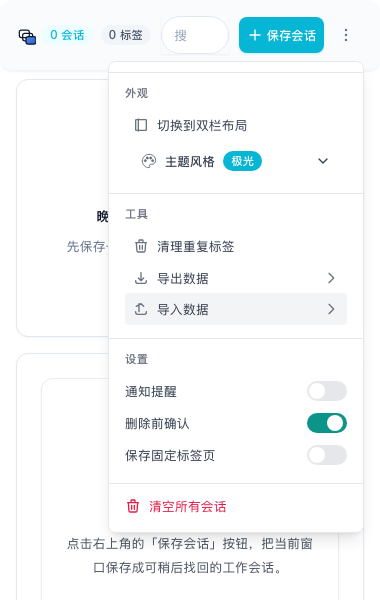
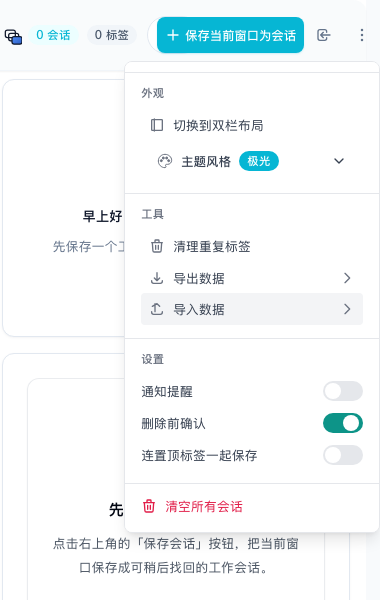
feat(ui): surface login affordance in header + clarify CTA wording
User-experience review of v1.15.0 surfaced three first-impression gaps
for new users. v1.15.1 closes them with minimal surface area:

1. Unauthenticated header now exposes the cloud-sync capability.
   Previously SyncButton returns null when not logged in, so new users
   had no UI hint that this product syncs across devices until they
   opened the kebab menu. Header now renders a compact login icon
   button next to the search box (tooltip: '登录后跨设备同步').
   AuthModal state is lifted from HeaderDropdown to Header so the
   header login button and the menu '登录 / 注册' entry open the
   same modal.

2. Two save CTAs now share one wording. Previously Header said
   '保存会话' (terse) and EmptyState said '保存当前窗口' (verbose)
   for the same action. Both now read '保存当前窗口为会话' — explicit
   about what gets saved. TabList smoke test updated to expect the
   new label.

3. Settings toggle '保存固定标签页' → '连置顶标签一起保存'. The old
   phrasing assumed the user knows what Chrome 'pinned tabs' are.
   New wording describes the effect, not the technical term.

Also bumps version 1.15.0 → 1.15.1 and adds scripts/verify-header-unauth.mjs
to regression-test the unauth header flow (login button visible,
modal opens from both surfaces, tab switch, Esc close, menu entry).
shots/5-header-unauth.png and 6-header-auth-modal.png are new
verification artifacts.

diff --git a/src/components/layout/Header.tsx b/src/components/layout/Header.tsx
@@ -1,4 +1,4 @@
-import React, { useTransition } from 'react';
+import React, { useState, useTransition } from 'react';
 import { useAppDispatch, useAppSelector } from '@/store/hooks';
 import { setReorderMode, saveSettings } from '@/store/slices/settingsSlice';
 import { selectReorderMode } from '@/store/selectors/tabSelectors';
@@ -9,6 +9,9 @@ import { useDebouncedSearch } from '@/hooks/useDebouncedSearch';
 import { useKeyboardShortcuts, COMMON_SHORTCUTS } from '@/hooks/useKeyboardShortcuts';
 import { Tooltip } from '@/components/common/Tooltip';
 import { TabStackLogo } from '@/components/common/TabStackIcon';
+import { ModalFrame } from '@/components/common/ModalFrame';
+import { LoginForm } from '../auth/LoginForm';
+import { RegisterForm } from '../auth/RegisterForm';
 
 interface HeaderProps {
   onSearch: (query: string) => void;
@@ -40,16 +43,35 @@ const SaveIcon = () => (
   </svg>
 );
 
+// 未登录 Header 上展示的「登录」次级按钮 —— 把"云同步能力"在第一眼暴露给新用户。
+// 与 HeaderDropdown 内「登录 / 注册」按钮打开同一个 AuthModal，由 Header 统一管理。
+const LoginIcon = () => (
+  <svg xmlns="http://www.w3.org/2000/svg" className="h-4 w-4" fill="none" viewBox="0 0 24 24" stroke="currentColor" strokeWidth={2}>
+    <path strokeLinecap="round" strokeLinejoin="round" d="M11 16l-4-4m0 0l4-4m-4 4h14m-5 4v1a3 3 0 01-3 3H6a3 3 0 01-3-3V7a3 3 0 013-3h7a3 3 0 013 3v1" />
+  </svg>
+);
+
 export const Header: React.FC<HeaderProps> = ({ onSearch }) => {
   const dispatch = useAppDispatch();
   // 只订阅 reorderMode 字段 —— 旧实现 `state => state.settings` 订阅整个
   // settings slice，任何设置变更都会重渲染 Header。
   const reorderMode = useAppSelector(selectReorderMode);
+  const isAuthenticated = useAppSelector(state => state.auth.isAuthenticated);
 
   const { searchValue, debouncedValue, handleSearchChange, clearSearch, isSearching } = useDebouncedSearch();
   const searchInputRef = React.useRef<HTMLInputElement>(null);
   const [isSearchTransitionPending, startSearchTransition] = useTransition();
   const [showDropdown, setShowDropdown] = React.useState(false);
+  // AuthModal 状态从 HeaderDropdown 上提 —— 让 Header 的「登录」按钮和菜单里的入口共用同一个 Modal
+  const [showAuthModal, setShowAuthModal] = useState(false);
+  const [authTab, setAuthTab] = useState<'login' | 'register'>('login');
+
+  const openAuthModal = () => {
+    setAuthTab('login');
+    setShowAuthModal(true);
+  };
+
+  const closeAuthModal = () => setShowAuthModal(false);
 
   const handleSaveAllTabs = async () => {
     const tabs = await chrome.tabs.query({ currentWindow: true });
@@ -153,12 +175,24 @@ export const Header: React.FC<HeaderProps> = ({ onSearch }) => {
                 aria-label="保存当前窗口中的所有标签页为会话"
               >
                 <SaveIcon />
-                <span>保存会话</span>
+                <span>保存当前窗口为会话</span>
               </button>
             </Tooltip>
 
-            {/* 手动同步 */}
-            <SyncButton />
+            {/* 已登录显示手动同步；未登录显示「登录」入口，把云同步能力在第一眼暴露 */}
+            {isAuthenticated ? (
+              <SyncButton />
+            ) : (
+              <Tooltip content="登录后跨设备同步" position="bottom">
+                <button
+                  onClick={openAuthModal}
+                  className="btn-icon flat-interaction hover:scale-105 focus-visible:ring-2 focus-visible:ring-primary/50 focus-visible:ring-offset-2"
+                  aria-label="登录后跨设备同步"
+                >
+                  <LoginIcon />
+                </button>
+              </Tooltip>
+            )}
 
             {/* Kebab 菜单：用 relative 容器包裹，为 HeaderDropdown 的 absolute 定位提供参照 */}
             <div className="relative">
@@ -172,11 +206,56 @@ export const Header: React.FC<HeaderProps> = ({ onSearch }) => {
                   <MenuIcon />
                 </button>
               </Tooltip>
-              {showDropdown && <HeaderDropdown onClose={() => setShowDropdown(false)} />}
+              {showDropdown && (
+                <HeaderDropdown
+                  onClose={() => setShowDropdown(false)}
+                  onRequestLogin={() => {
+                    setShowDropdown(false);
+                    openAuthModal();
+                  }}
+                />
+              )}
             </div>
           </div>
         </div>
       </div>
+
+      {/* 登录/注册弹窗：未登录 Header 按钮 / 菜单内入口共用 */}
+      <ModalFrame
+        visible={showAuthModal}
+        onClose={closeAuthModal}
+        title={authTab === 'login' ? '登录' : '注册'}
+      >
+        <div className="mb-4 flex gap-2">
+          <button
+            onClick={() => setAuthTab('login')}
+            className={`flex-1 rounded-lg px-3 py-2 text-sm font-medium transition-colors ${
+              authTab === 'login'
+                ? 'bg-primary-600 text-white'
+                : 'bg-gray-100 text-gray-700 dark:bg-gray-700 dark:text-gray-300'
+            }`}
+            type="button"
+          >
+            登录
+          </button>
+          <button
+            onClick={() => setAuthTab('register')}
+            className={`flex-1 rounded-lg px-3 py-2 text-sm font-medium transition-colors ${
+              authTab === 'register'
+                ? 'bg-primary-600 text-white'
+                : 'bg-gray-100 text-gray-700 dark:bg-gray-700 dark:text-gray-300'
+            }`}
+            type="button"
+          >
+            注册
+          </button>
+        </div>
+        {authTab === 'login' ? (
+          <LoginForm onSuccess={closeAuthModal} />
+        ) : (
+          <RegisterForm onSuccess={closeAuthModal} />
+        )}
+      </ModalFrame>
     </header>
   );
 };

diff --git a/src/components/layout/HeaderDropdown.tsx b/src/components/layout/HeaderDropdown.tsx
@@ -1,4 +1,4 @@
-import React, { useState, useRef, useEffect } from 'react';
+import React, { useEffect } from 'react';
 import { useAppSelector, useAppDispatch } from '@/store/hooks';
 import { signOut } from '@/store/slices/authSlice';
 import { deleteAllGroups } from '@/store/slices/tabSlice';
@@ -10,26 +10,23 @@ import {
   saveSettings,
 } from '@/store/slices/settingsSlice';
 import { useToast } from '@/contexts/ToastContext';
-import { LoginForm } from '../auth/LoginForm';
-import { RegisterForm } from '../auth/RegisterForm';
 import { ThemeStyleSelector } from './ThemeStyleSelector';
-import { ModalFrame } from '@/components/common/ModalFrame';
 import { MenuSection } from './MenuSection';
 import { MenuToggleRow } from './MenuToggleRow';
 import { ExportImportMenu } from './ExportImportMenu';
 
 interface HeaderDropdownProps {
   onClose: () => void;
+  /** 未登录时点击「登录 / 注册」按钮回调 —— 由父组件打开登录弹窗 */
+  onRequestLogin: () => void;
 }
 
 /** 轻量菜单 —— 只放用户高频需要的操作：账户、外观、数据备份。 */
-export const HeaderDropdown: React.FC<HeaderDropdownProps> = ({ onClose }) => {
+export const HeaderDropdown: React.FC<HeaderDropdownProps> = ({ onClose, onRequestLogin }) => {
   const dispatch = useAppDispatch();
   const { isAuthenticated, user } = useAppSelector(state => state.auth);
   const settings = useAppSelector(state => state.settings);
-  const [activeTab, setActiveTab] = useState<'login' | 'register'>('login');
-  const [showAuthModal, setShowAuthModal] = useState(false);
-  const dropdownRef = useRef<HTMLDivElement>(null);
+  const dropdownRef = React.useRef<HTMLDivElement>(null);
   const { showConfirm, showAlert } = useToast();
 
   // 处理通知开关
@@ -137,7 +134,10 @@ export const HeaderDropdown: React.FC<HeaderDropdownProps> = ({ onClose }) => {
           </div>
         ) : (
           <button
-            onClick={() => setShowAuthModal(true)}
+            onClick={() => {
+              onClose();
+              onRequestLogin();
+            }}
             className="w-full text-left px-4 py-2 text-sm text-gray-700 dark:text-gray-300 flat-interaction flex items-center"
             type="button"
           >
@@ -185,10 +185,10 @@ export const HeaderDropdown: React.FC<HeaderDropdownProps> = ({ onClose }) => {
             ariaLabel="删除前确认"
           />
           <MenuToggleRow
-            label="保存固定标签页"
+            label="连置顶标签一起保存"
             checked={settings.collectPinnedTabs}
             onChange={handleToggleCollectPinnedTabs}
-            ariaLabel="保存固定标签页"
+            ariaLabel="连置顶标签一起保存"
           />
         </MenuSection>
 
@@ -206,55 +206,6 @@ export const HeaderDropdown: React.FC<HeaderDropdownProps> = ({ onClose }) => {
           清空所有会话
         </button>
       </div>
-
-      {/* 登录/注册弹窗 */}
-      {showAuthModal && (
-        <ModalFrame
-          visible={showAuthModal}
-          onClose={() => setShowAuthModal(false)}
-          title={activeTab === 'login' ? '登录' : '注册'}
-        >
-          <div className="mb-4 flex gap-2">
-            <button
-              onClick={() => setActiveTab('login')}
-              className={`flex-1 rounded-lg px-3 py-2 text-sm font-medium transition-colors ${
-                activeTab === 'login'
-                  ? 'bg-primary-600 text-white'
-                  : 'bg-gray-100 text-gray-700 dark:bg-gray-700 dark:text-gray-300'
-              }`}
-              type="button"
-            >
-              登录
-            </button>
-            <button
-              onClick={() => setActiveTab('register')}
-              className={`flex-1 rounded-lg px-3 py-2 text-sm font-medium transition-colors ${
-                activeTab === 'register'
-                  ? 'bg-primary-600 text-white'
-                  : 'bg-gray-100 text-gray-700 dark:bg-gray-700 dark:text-gray-300'
-              }`}
-              type="button"
-            >
-              注册
-            </button>
-          </div>
-          {activeTab === 'login' ? (
-            <LoginForm
-              onSuccess={() => {
-                setShowAuthModal(false);
-                onClose();
-              }}
-            />
-          ) : (
-            <RegisterForm
-              onSuccess={() => {
-                setShowAuthModal(false);
-                onClose();
-              }}
-            />
-          )}
-        </ModalFrame>
-      )}
     </div>
   );
 };

diff --git a/tests/components/TabList.smoke.test.tsx b/tests/components/TabList.smoke.test.tsx
@@ -108,7 +108,7 @@ test('TabList: empty state renders when no groups and no search', () => {
   // The empty-state branch shows the PersonalizedWelcome component which
   // greets with "早上好" / "下午好" / "晚上好" based on local time, plus
   // the EmptyState component with a "保存当前窗口" CTA button.
-  assert.ok(screen.getByText('保存当前窗口'), 'empty-state CTA should be visible');
+  assert.ok(screen.getAllByText('保存当前窗口为会话').length >= 1, 'empty-state CTA should be visible');
   cleanup();
 });
 

diff --git a/src/components/tabs/TabList.tsx b/src/components/tabs/TabList.tsx
@@ -133,7 +133,7 @@ export const TabList: React.FC<TabListProps> = ({ searchQuery }) => {
                 }}
                 className="px-6 py-2 text-sm font-medium flat-button-primary flat-interaction focus-visible:ring-2 focus-visible:ring-primary focus-visible:ring-offset-2"
               >
-                保存当前窗口
+                保存当前窗口为会话
               </button>
             }
           />

diff --git a/README.md b/README.md
@@ -1,12 +1,12 @@
 # TabStack
 
-当前版本：`1.15.0`
+当前版本：`1.15.1`
 
 > **Save the session. Find it later. Restore it on any device.**
 >
 > OneTab 简单，但换电脑就没了。TabStack 让你的标签组跟着你走 —— 端到端加密、跨设备同步、3 套主题开箱即用。
 
-[![Version](https://img.shields.io/badge/version-1.15.0-blue)]()
+[![Version](https://img.shields.io/badge/version-1.15.1-blue)]()
 [![License](https://img.shields.io/badge/license-MIT-green)]()
 [![MV3](https://img.shields.io/badge/Manifest-V3-orange)]()
 
